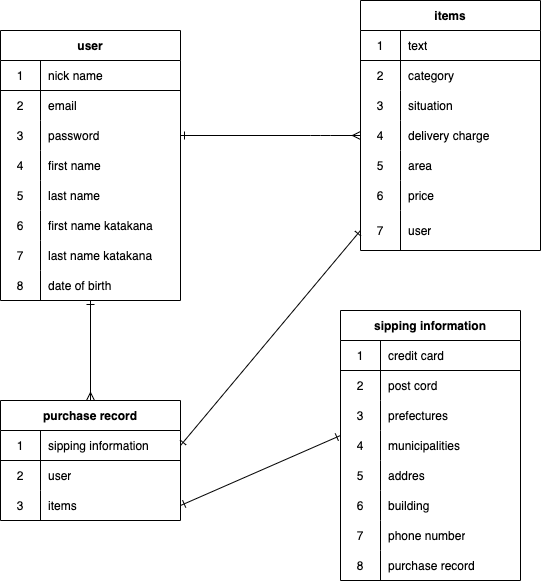
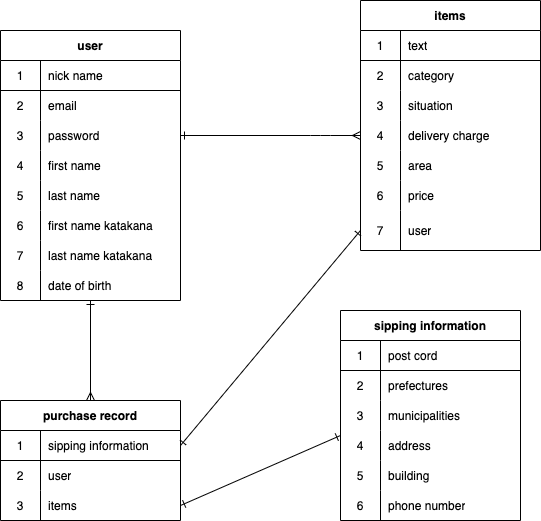
データベース設計修正

diff --git a/README.md b/README.md
@@ -1,66 +1,64 @@
-## user
+## users
 
-|Column              |Type                 |Options                    |
-|--------------------|---------------------|---------------------------|
-| email              | string              | null: false, unique: true |
-| encrypted_password | string              | null: false               |
-| name               | string              | null: false               |
-| nick name          | string              | null: false               |
-| first name         | string              | null: false               |
-| last name          | string              | null: false               |
-| first name katakana| string              | null: false               |
-| last name katakana | string              | null: false               |
-| date of birth      | string              | null: false               |
+|Column              |Type                   |Options                    |
+|--------------------|-----------------------|---------------------------|
+| email              | string                | null: false, unique: true |
+| encrypted_password | string                | null: false               |
+| nick_name          | string                | null: false               |
+| first_name         | string                | null: false               |
+| last_name          | string                | null: false               |
+| first_name_katakana| string                | null: false               |
+| last_name_katakana | string                | null: false               |
+| date_of_birth      | datetime              | null: false               |
 
 
 
 ### Association
 * has_many :items
-* has_many :purchase record
+* has_many :purchase_records
 
 ## items
 
-|Column           |Type        |Options                         |
-|-----------------|------------|--------------------------------|
-| text            | text       | null: false                    |
-| category        | string     | null: false                    |
-| situation       | string     | null: false
-| delivery charge | string     | null: false                    |
-| area            | string     | null: false                    |
-| price           | string     | null: false                    |
-| user            | references | null: false, foreign_key: true |
+|Column              |Type        |Options                         |
+|--------------------|------------|--------------------------------|
+| text               | text       | null: false                    |
+| category_id        | string     | null: false                    |
+| situation_id       | string     | null: false                    |
+| delivery_charge_id | integer    | null: false                    |
+| area_id            | string     | null: false                    |
+| price              | string     | null: false                    |
+| user               | references | null: false, foreign_key: true |
 
 ### Association
-belongs_to :user
-has_one :purchase record
+belongs_to :users
+has_one :purchase_records
 
-## purchase record
+## purchase records
 
 |Column               |Type        |Options                         |
 |---------------------|------------|--------------------------------|
-| sipping information | references | null: false, foreign_key: true |
+| sipping_information | references | null: false, foreign_key: true |
 | user                | references | null: false, foreign_key: true |
 | items               | references | null: false, foreign_key: true |
 
 
 ### Association
-belongs_to :user
+belongs_to :users
 belongs_to :items
-has_one :sipping information
+has_one :sipping_information
 
 ## sipping information
 
-|Column          |Type    |Options      |
-|----------------|--------|-------------|
-| credit card    | string | null: false |
-| post cord      | string | null: false |
-| prefectures    | string | null: false |
-| municipalities | string | null: false |
-| address        | string | null: false |
-| building       | string |             |
-| phone number   | string | null: false |
+|Column          |Type       |Options      |
+|----------------|-----------|-------------|
+| post_cord      | integer   | null: false |
+| prefectures_id | integer   | null: false |
+| municipalities | string    | null: false |
+| address        | string    | null: false |
+| building       | string    |             |
+| phone_number   | datetime  | null: false |
 
 
 ### Association
 
-belogs_to :purchase record
+belongs_to :purchase_records
